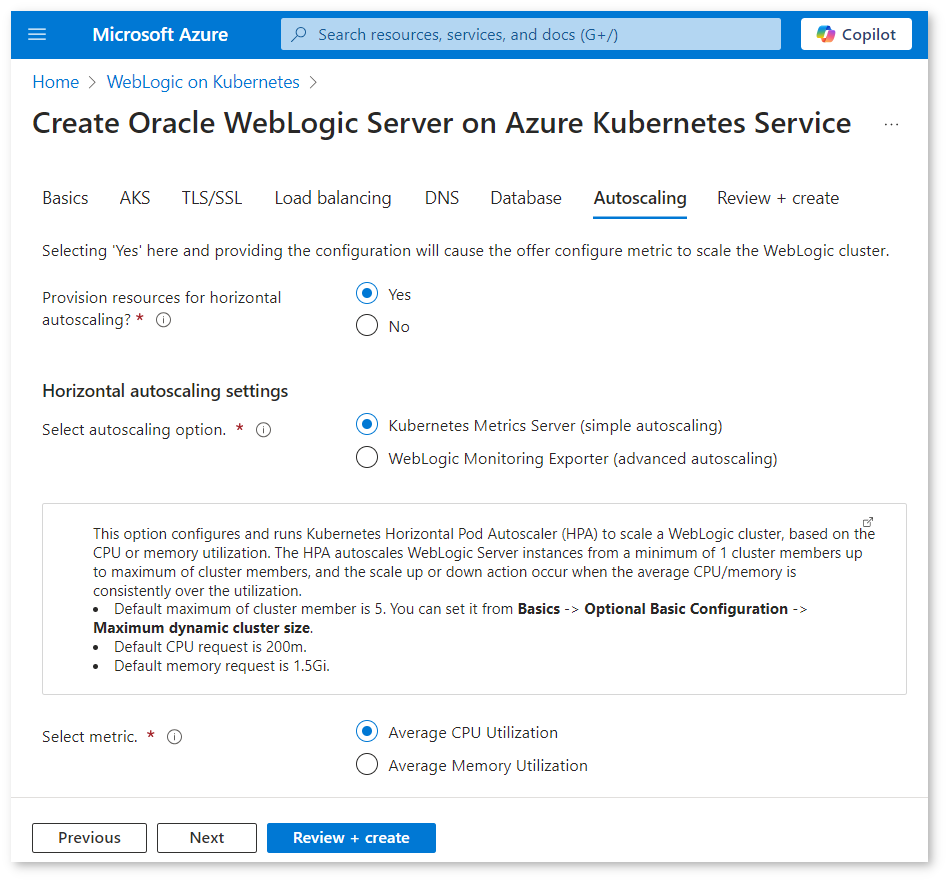
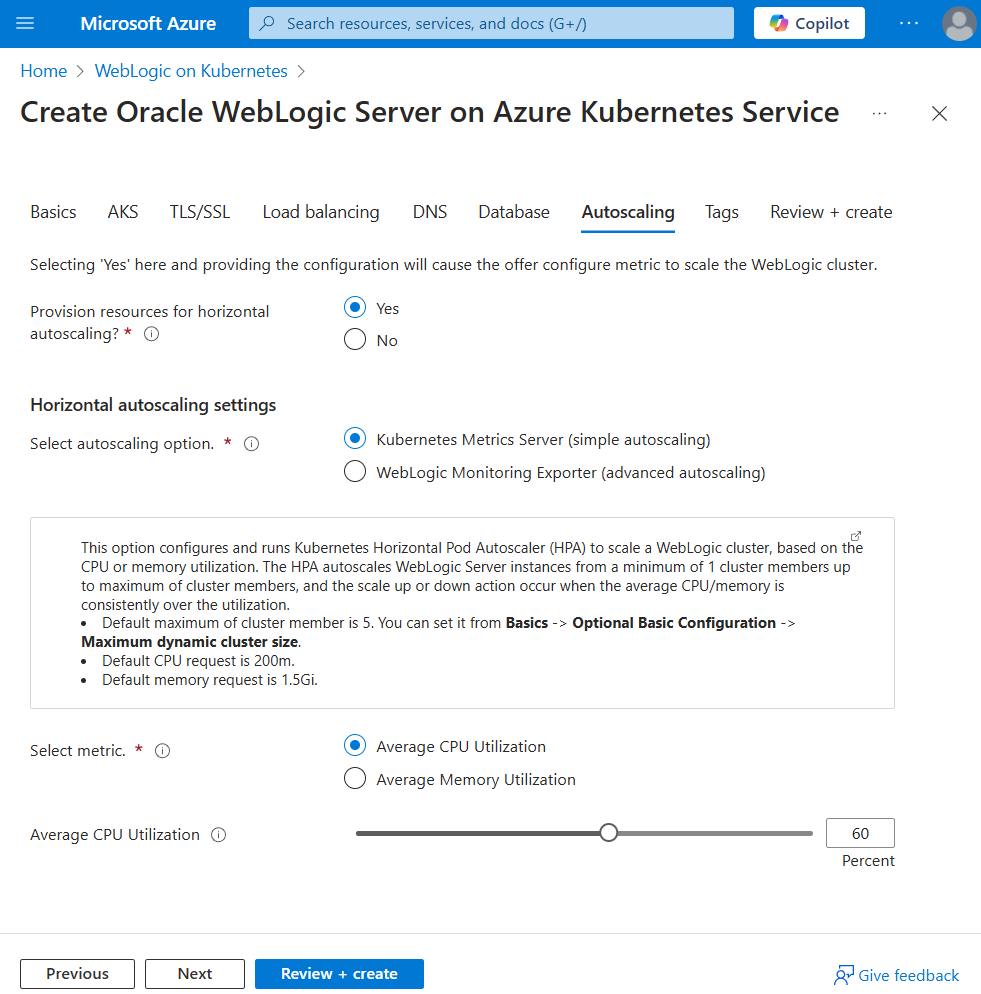
update aks userguide for Tags

diff --git a/documentation/site/content/managing-domains/aks/_index.md b/documentation/site/content/managing-domains/aks/_index.md
@@ -75,9 +75,10 @@ In this section, you can configure some options about the AKS which will run Web
 | Field | Description |
 |-------|-------------|
 |Create a new AKS cluster| If set to **Yes**, the deployment will create a new AKS cluster resource in the specified resource group. If set to **No**, you have the opportunity to select an existing AKS cluster, into which the deployment is configured. Note: the offer assumes the existing AKS cluster has no WebLogic related deployments. |
+| Node size | The default VM size is 2x Standard DSv2, 2 vcpus, 7 GB memory. If you want to select a different VM size, select **Change Size**, select the size from the list (for example, A3) on the Select a VM size page, and select **Select**. For more information about sizing the virtual machine, see the [Azure documentation on Sizes](https://docs.microsoft.com/azure/cloud-services/cloud-services-sizes-specs).|
 | Minimum node count | The minimum node count in the AKS cluster. This value can be changed after deployment. For information, see [AKS autoscaler](https://learn.microsoft.com/azure/aks/cluster-autoscaler). |
 | Maximum node count | The maximum node count in the AKS cluster. This value can be changed after deployment. For information, see [AKS autoscaler](https://learn.microsoft.com/azure/aks/cluster-autoscaler). |
-| Node size | The default VM size is 2x Standard DSv2, 2 vcpus, 7 GB memory. If you want to select a different VM size, select **Change Size**, select the size from the list (for example, A3) on the Select a VM size page, and select **Select**. For more information about sizing the virtual machine, see the [Azure documentation on Sizes](https://docs.microsoft.com/azure/cloud-services/cloud-services-sizes-specs).|
+| Select AKS cluster | This option is shown if **Create a new AKS cluster?** is set to **No**. If visible, select an existing Azure Kubernetes Service instance. |
 
 #### Image selection
 
@@ -86,12 +87,13 @@ In this section, you can configure the image that is deployed using the model-in
 | Field | Description |
 |-------|-------------|
 |Create a new Azure Container Registry to store application images?|If set to **Yes**, the offer will create a new Azure Container Registry (ACR) to hold the images for use in the deployment.  If set to **No**, you must specify an existing ACR. In this case, you must be sure the selected ACR has the admin account enabled. For details, please see [Admin account](https://docs.microsoft.com/azure/container-registry/container-registry-authentication?tabs=azure-cli#admin-account). |
-| Select ACR instance | This option is shown if **Create a new Azure Container Registry to store application images?** is set to **No**. If visible, select an existing Acure Container Registry instance. |
+| Select ACR instance | This option is shown if **Create a new Azure Container Registry to store application images?** is set to **No**. If visible, select an existing Azure Container Registry instance. |
 | Username for Oracle Single Sign-On authentication | The Oracle Single Sign-on account user name for which the Terms and Restrictions for the selected WebLogic Server image have been accepted. |
 | Password for Oracle Single Sign-On authentication | The password for that account. |
 | Confirm password | Re-enter the value of the preceding field. | If 'Yes' is selected; the deployment process will pull from the CPU WebLogic Server image repository in the OCR. If 'No' is selected the deployment process will pull from the WebLogic Server image repository in OCR. |
 | Select the type of WebLogic Server Images. | If set to **Patched WebLogic Server Images**, you must accept the license agreement in the `middleware/weblogic_cpu` repository. If set to **General WebLogic Server Images**, you must accept the license agreement in the `middleware/weblogic`. Steps to accept the license agreement: log in to the [Oracle Container Registry](https://container-registry.oracle.com/); navigate to the `middleware/weblogic_cpu` and `middleware/weblogic` repository; accept license agreement. See this [document](https://aka.ms/wls-aks-ocr-doc) for more information. |
 | Select desired combination of WebLogic Server, JDK and Operating System or fully qualified Docker tag | Select one of the supported images. |
+| WebLogic Docker tag | This option is shown if **Select desired combination of WebLogic Server, JDK and Operating System or fully qualified Docker tag** is set to **Others**. If visible, input a fully qualified Docker tag. You can find the available tags from WebLogic Server Images page of [Oracle Registry Container](https://container-registry.oracle.com/) |
 
 #### Application
 
@@ -332,6 +334,18 @@ After the provisioning is complete, you can create KEDA scaling rules. A sample 
 * Select **Outputs**.
 * The **shellCmdtoOutputKedaScalerSample** value is the base64 string of a scaler sample. Copy the value and run it in your terminal.
 * For guidance on how to complete the configuration, see [Tutorial: Migrate Oracle WebLogic Server to AKS with KEDA scaler based on Prometheus Metrics](https://aka.ms/wls-aks-keda-scaler).
+
+When you are satisfied with your selections, select **Next** and open **Tags** blade.
+
+### Tags
+
+Use the Tags blade to provide tags for resources and resource groups. Tags are name/value pairs that allow you to categorize resources and consolidate billing by applying the same tag to multiple resources and resource groups. [Learn more about tags](https://go.microsoft.com/fwlink/?linkid=873112).
+
+Enter the desired name/value pairs for resources in the table, filling out each of the following fields.
+
+| Name | Value | Resource |
+|------|-------|----------|
+| Tag name. | Tag value. | Resources available for tagging in this offer. |
 
 When you are satisfied with your selections, select **Review + create**.
 
